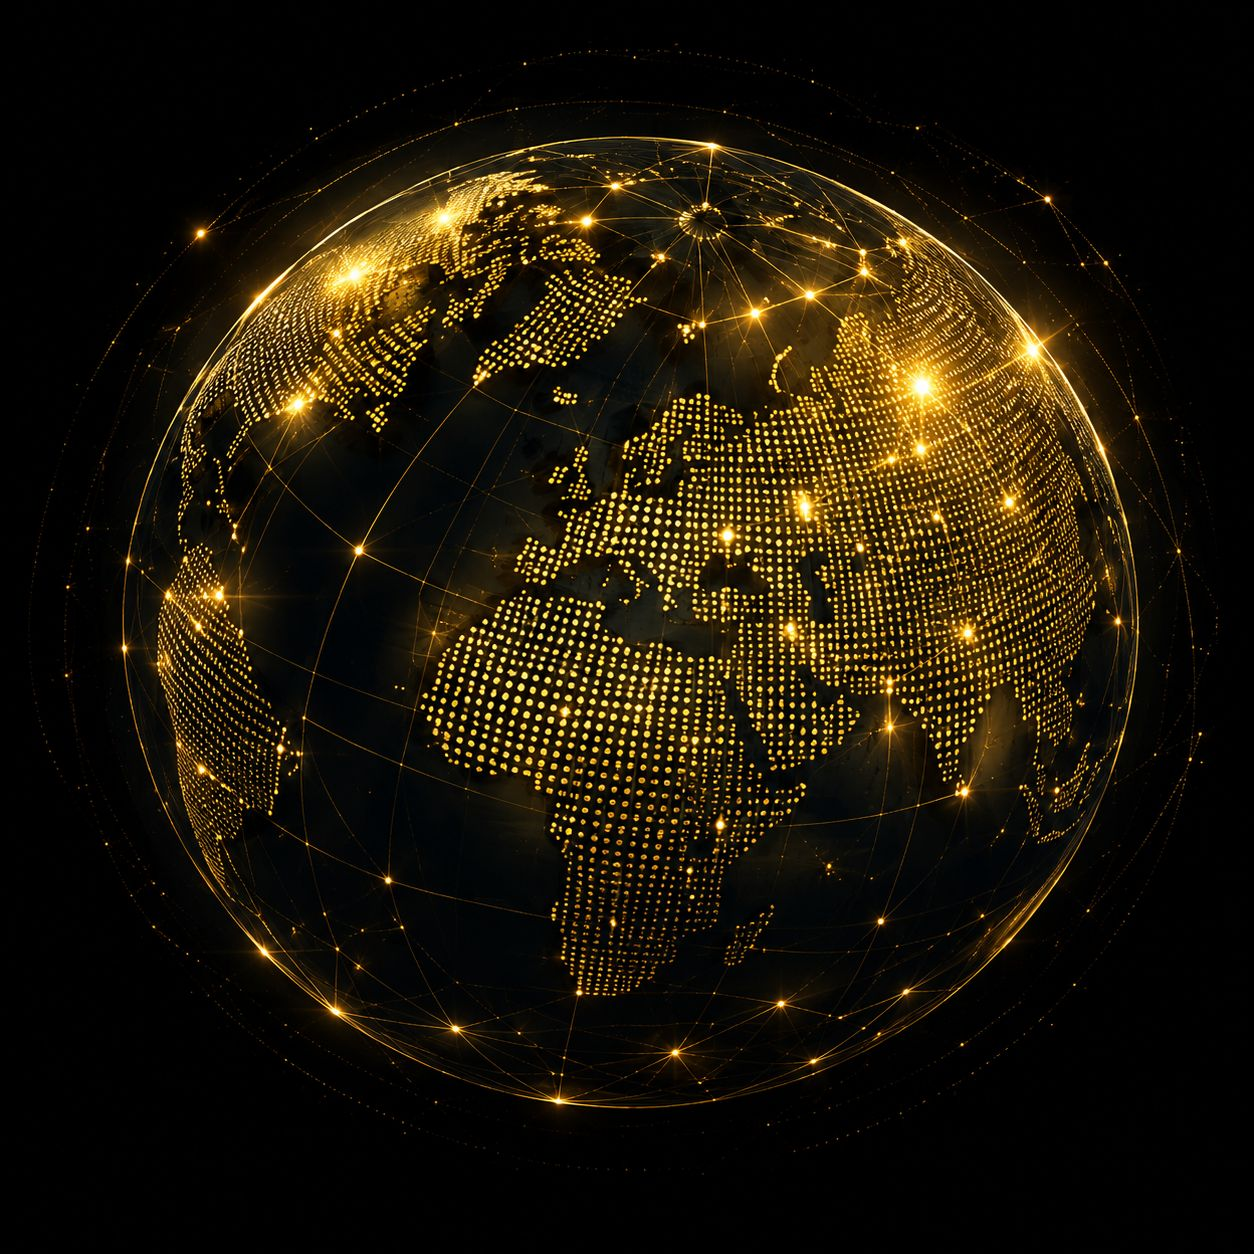
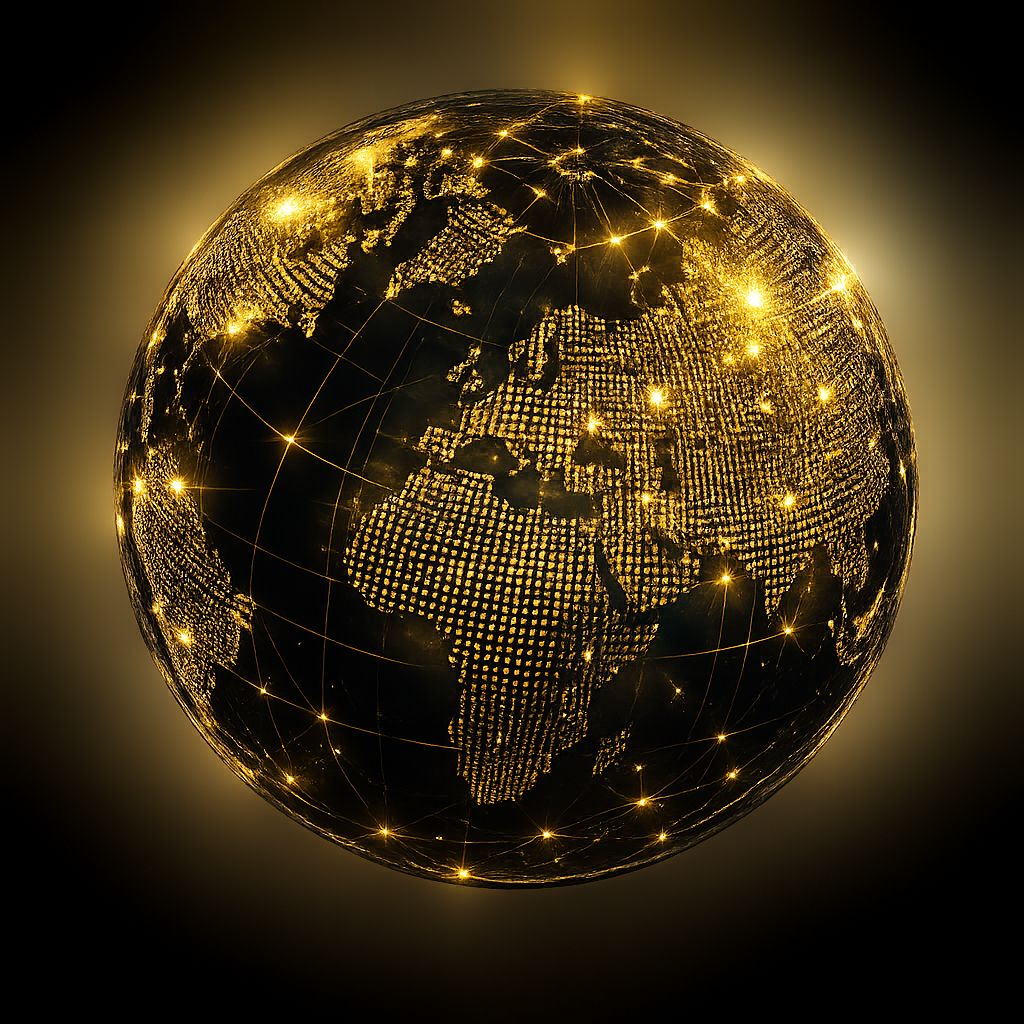
fixing about us

diff --git a/src/app/features/about/components/about/about.component.css b/src/app/features/about/components/about/about.component.css
@@ -697,7 +697,7 @@ h2{
   .story-section,
   .stats-section,
   .services-section{
-    padding:60px 20px;
+    padding:30px 20px;
   }
 
   .hero-left h1,
@@ -740,6 +740,10 @@ h2{
     width:280px;
     height:280px;
   }
+
+ .story-right img{
+  margin-top: -50px;
+}
 
 }
 
@@ -892,7 +896,7 @@ h2{
   color:#d4a017;
 }
 
-.globe-image{
+/* .globe-image{
   width:400px;
   display:flex;
   justify-content:center;
@@ -900,9 +904,10 @@ h2{
 
 .globe-image img{
   width:100%;
+  height: 100%;
   border-radius:50%;
   object-fit:cover;
-}
+} */
 
 /* ============================= */
 /* CTA SECTION */
@@ -1143,6 +1148,19 @@ button, .service-card, .info-card {
     overflow: hidden;
   }
 
+ .journey-card,
+  .choose-card {
+    max-width: 99%;
+  }
+   .journey-card,
+  .choose-card,
+  .cta-section {
+    width: 99%;
+    margin: 20px auto;
+  }
+  .cta-btn {
+  margin: 20px auto 0;
+}
 }
 
 html, body {
@@ -1285,3 +1303,91 @@ html, body {
   pointer-events: none;
 }
 
+/* ============================= */
+/* GLOBE IMAGE - DESKTOP */
+/* ============================= */
+.globe-image{
+  width: 420px;
+  height: 420px;
+
+  border-radius: 50%;
+  overflow: hidden;
+
+  display: flex;
+  align-items: center;
+  justify-content: center;
+
+  margin: auto;
+
+  background: transparent;
+  box-shadow: none;
+}
+
+.globe-image img{
+  width: 100%;
+  height: 100%;
+
+  object-fit: cover;
+  border-radius: 50%;
+
+  /* FIX EXTRA GOLD BOTTOM */
+  transform: scale(1.42) translateY(-8px);
+
+  object-position: center;
+}
+
+/* ============================= */
+/* MOBILE RESPONSIVE */
+/* ============================= */
+
+@media (max-width: 768px){
+
+  .choose-card{
+    flex-direction: column;
+    text-align: center;
+    padding: 25px 18px;
+  }
+
+  .choose-content{
+    width: 100%;
+  }
+
+  .choose-content ul{
+    margin-top: 18px;
+  }
+
+  .choose-content li{
+    justify-content: center;
+    font-size: 17px;
+  }
+
+  .globe-image{
+    width: 260px;
+    height: 260px;
+
+    margin-top: 10px;
+  }
+
+  .globe-image img{
+    transform: scale(1.38);
+  }
+
+}
+/* ============================= */
+/* ROTATING EARTH EFFECT */
+/* ============================= */
+
+@keyframes rotateEarth {
+  0% {
+    transform: rotate(-90deg) scale(1.42) translateY(-8px);
+  }
+  100% {
+    transform: rotate(90deg) scale(1.42) translateY(-8px);
+  }
+}
+
+/* apply rotation to the image */
+.globe-image img {
+  animation: rotateEarth 18s linear infinite;
+  transform-origin: center;
+}

diff --git a/src/app/features/about/components/about/about.component.html b/src/app/features/about/components/about/about.component.html
@@ -319,8 +319,8 @@
 
     <!-- FINAL GLOBE IMAGE INCLUDED -->
     <div class="globe-image reveal delay-3">
-      <img src="assets/images/aboutus3.jpg" alt="globe">
-    </div>
+     <img src="assets/images/aboutus3.jpg" alt="globe">
+   </div>
 
   </div>
 